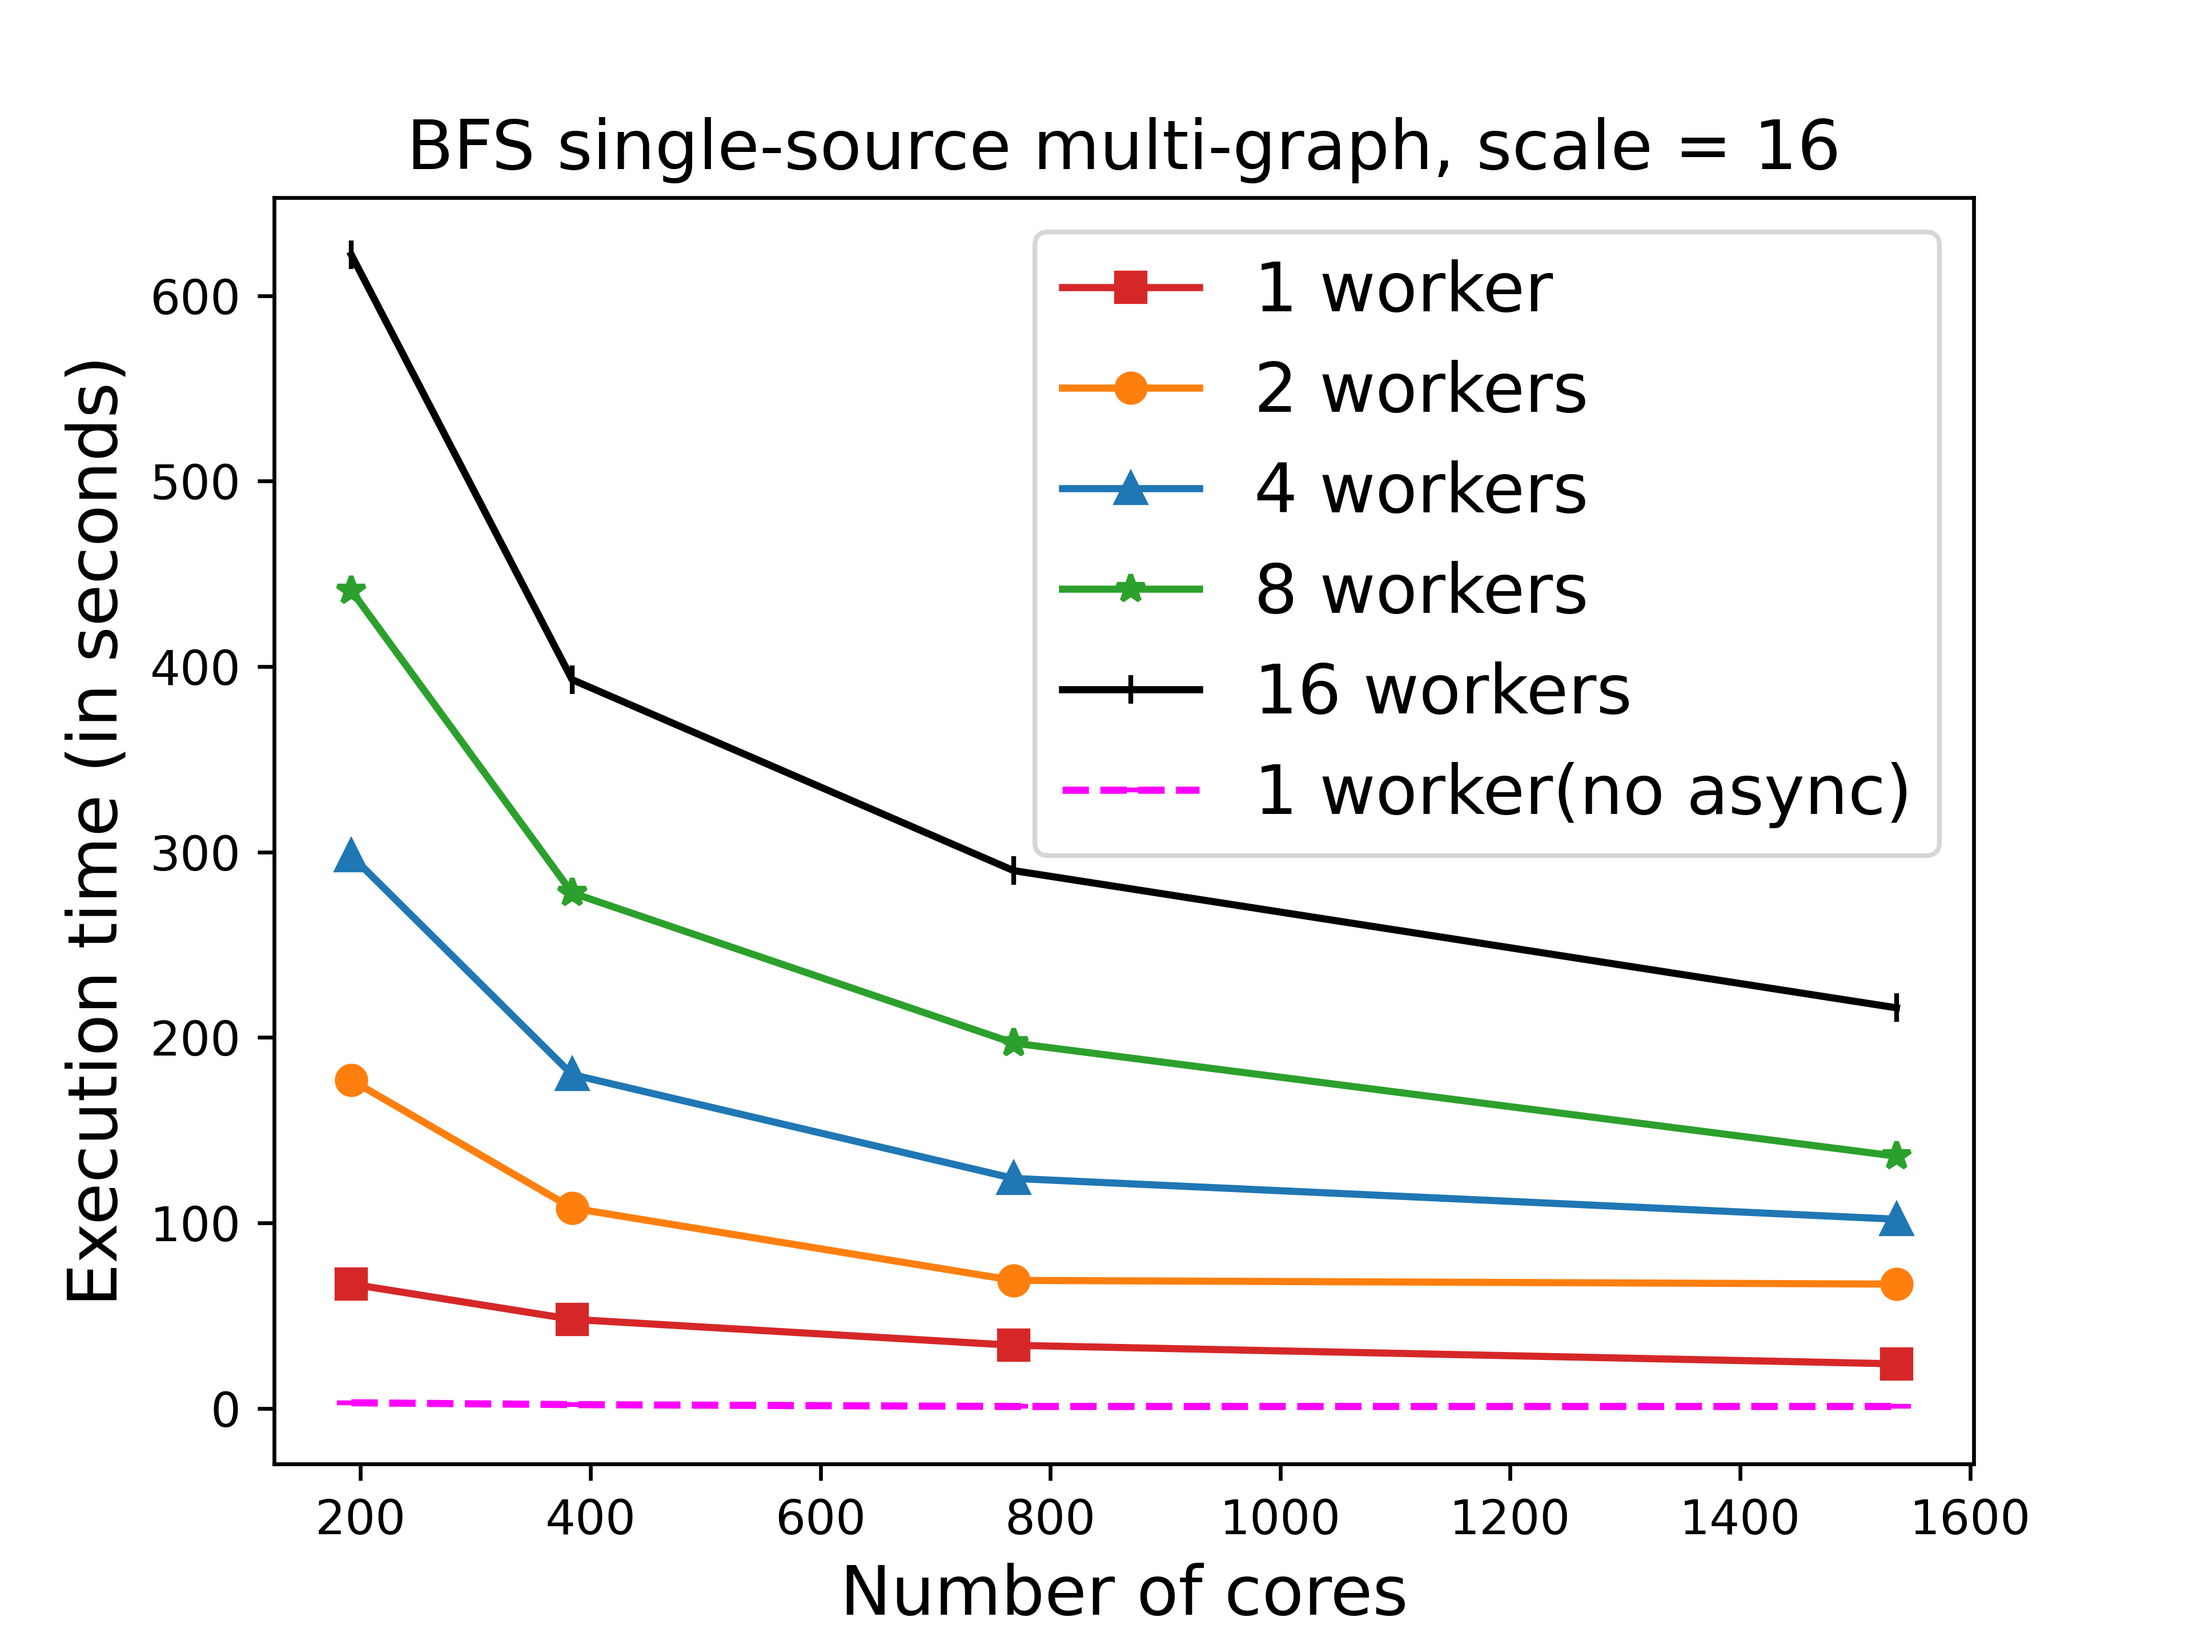
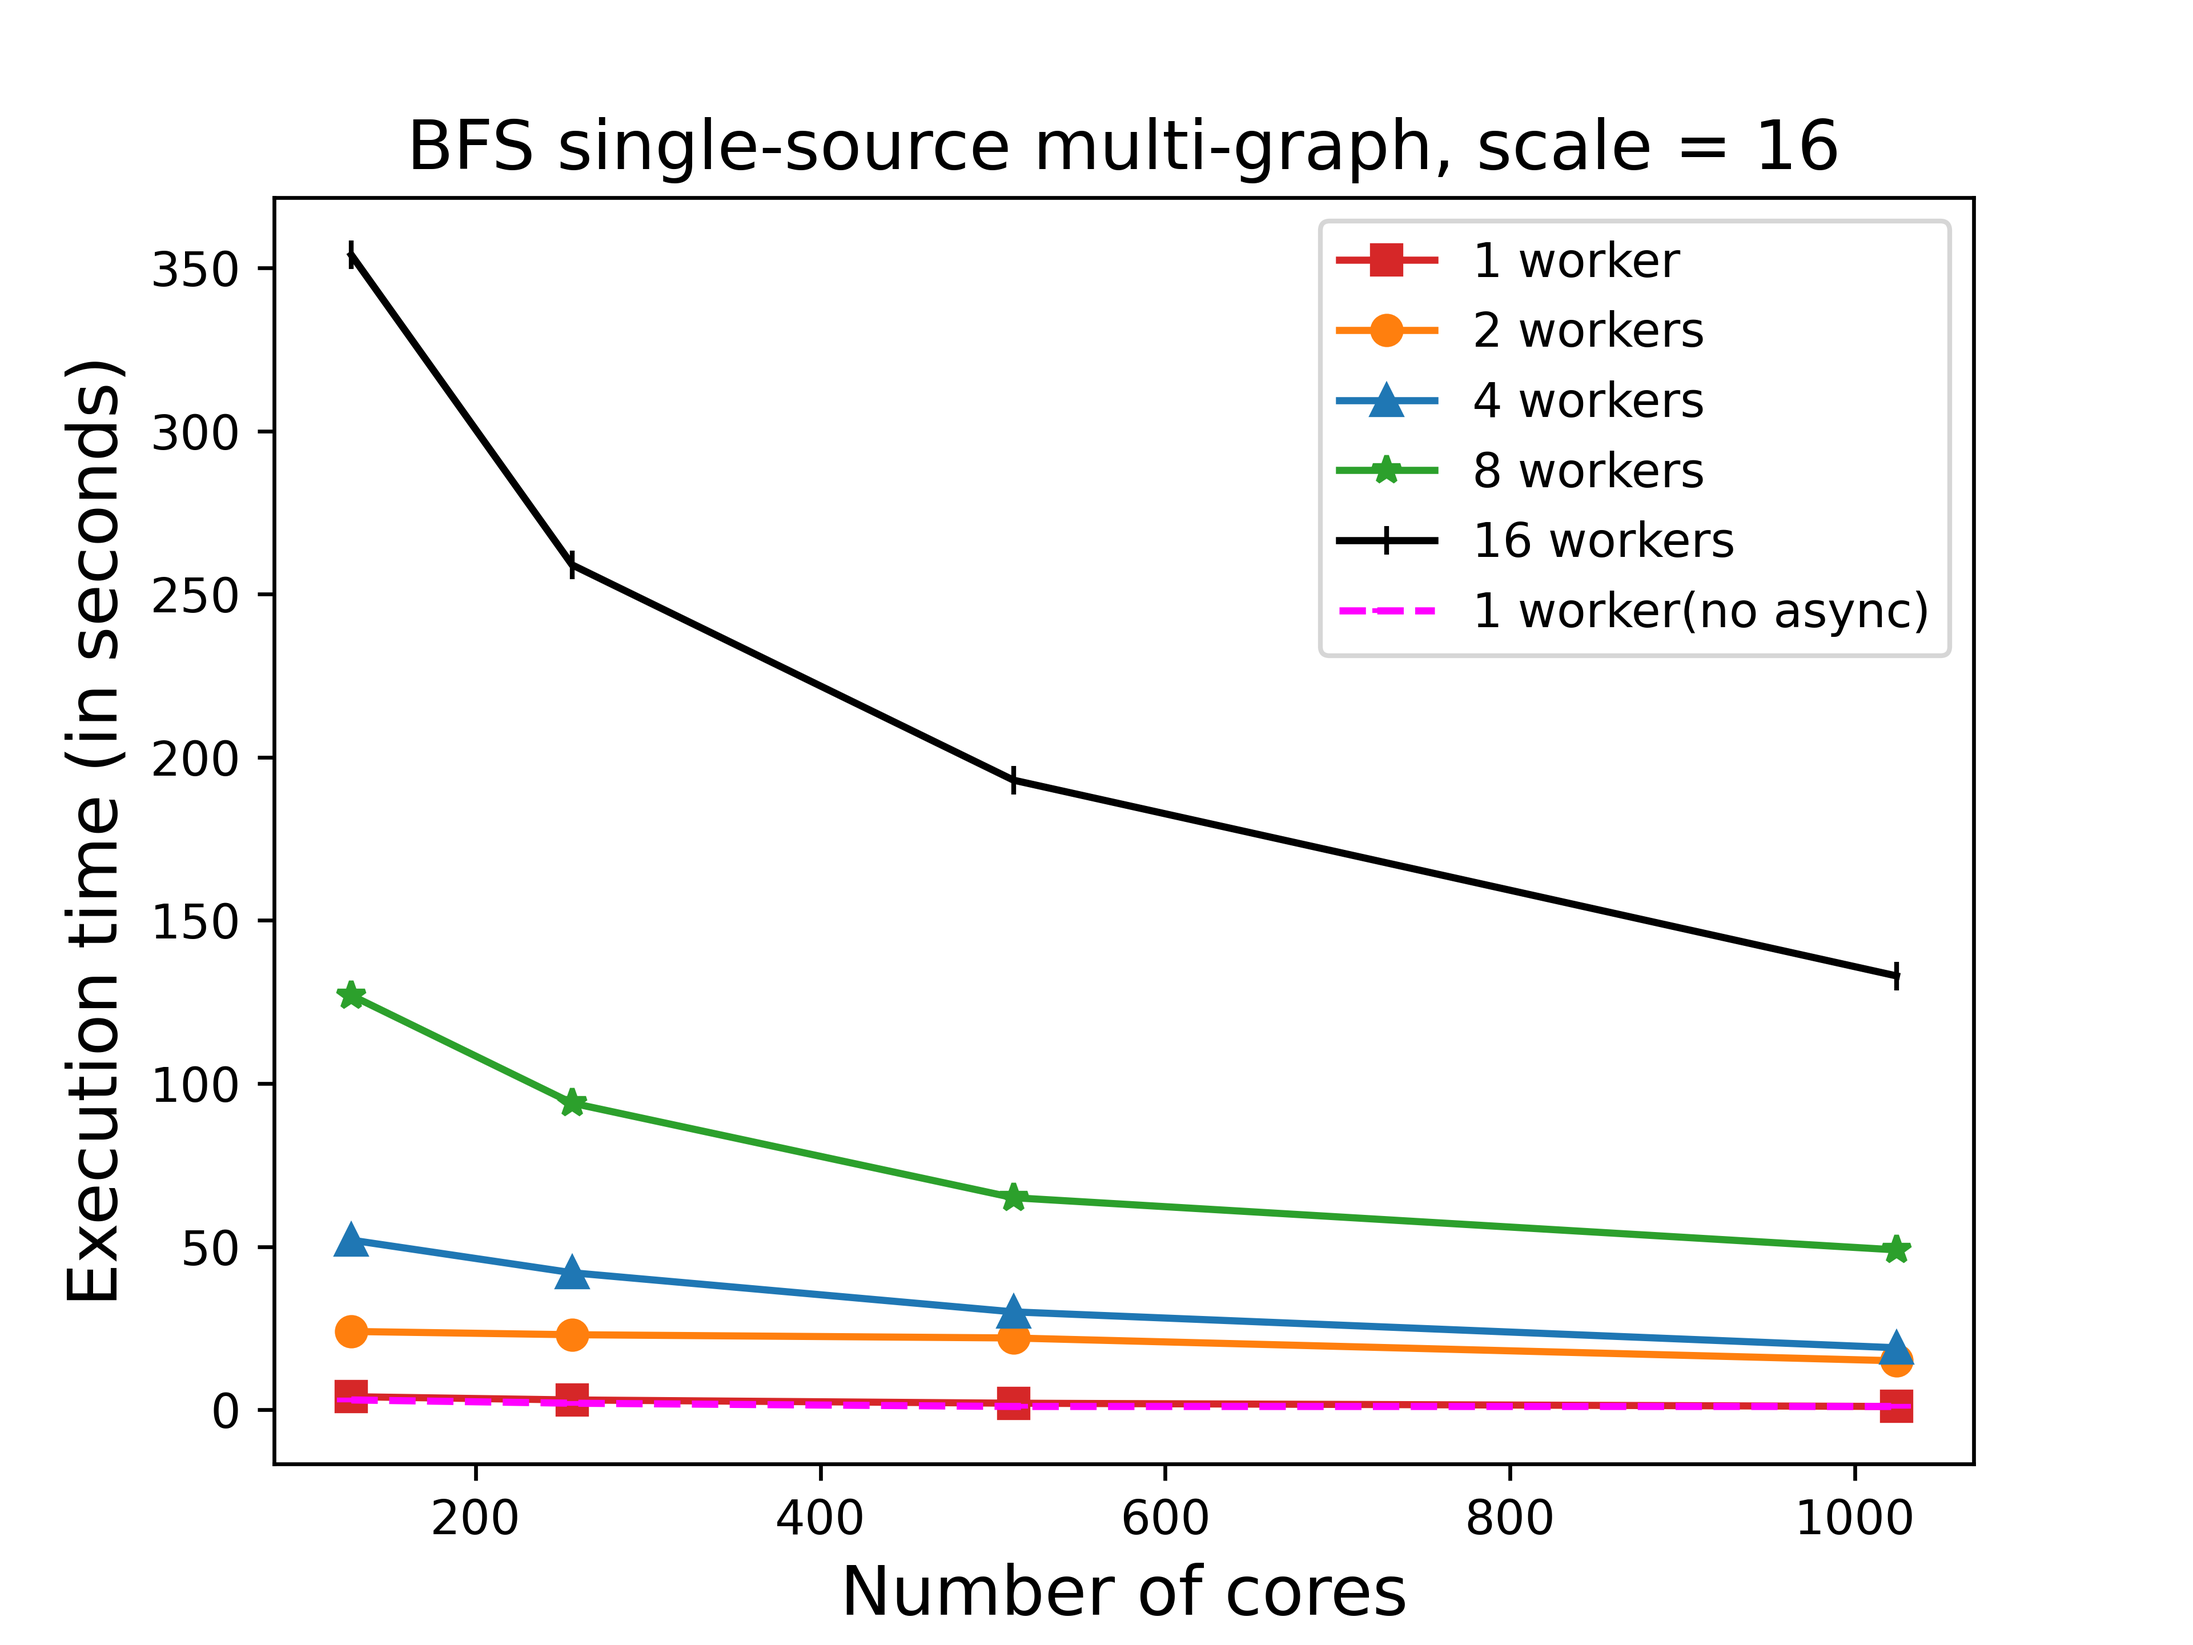
performanceMeasurement

diff --git a/multithreading/singlesource-bfs/test_strongscaling.py b/multithreading/singlesource-bfs/test_strongscaling.py
@@ -74,18 +74,18 @@ def main():
             df = df//5
             c_base.append(df)
 
-    workers = [192, 384, 768, 1536]
+    workers = [128, 256, 512, 1024]
 
     plt.plot(workers, c_1, marker = 's', color='tab:red', label='1 worker')
     plt.plot(workers, c_2, marker = 'o', color='tab:orange', label='2 workers')
     plt.plot(workers, c_4, marker = '^', color='tab:blue', label='4 workers')
     plt.plot(workers, c_8, marker = '*',color='tab:green', label='8 workers')
-    plt.plot(workers, c_16, marker = '|',color='black', label='16 workers')
+    #plt.plot(workers, c_16, marker = '|',color='black', label='16 workers')
     plt.plot(workers, c_base, marker = '_',color='magenta', label='1 worker(no async)', linestyle='dashed')
     plt.xlabel("Number of cores", fontsize="x-large")
     plt.ylabel("Execution time (in seconds)", fontsize="x-large")
     plt.title("BFS single-source multi-graph, scale = " + str(sys.argv[1]), fontsize="x-large")
-    plt.legend(fontsize="x-large")
+    plt.legend()
     plt.savefig("pic_ss_" + str(sys.argv[1]) + ".png", dpi = 600)
 
 if __name__=="__main__": 

diff --git a/multithreading/singlesource-bfs/main_01.cpp b/multithreading/singlesource-bfs/main_01.cpp
@@ -30,7 +30,7 @@ extern "C" {
 #include <utility>
 #include <memory>
 #include <sstream>
-#define DEBUG
+// #define DEBUG
 #define THREADS shmem_n_pes()
 #define MYTHREAD shmem_my_pe()
 
